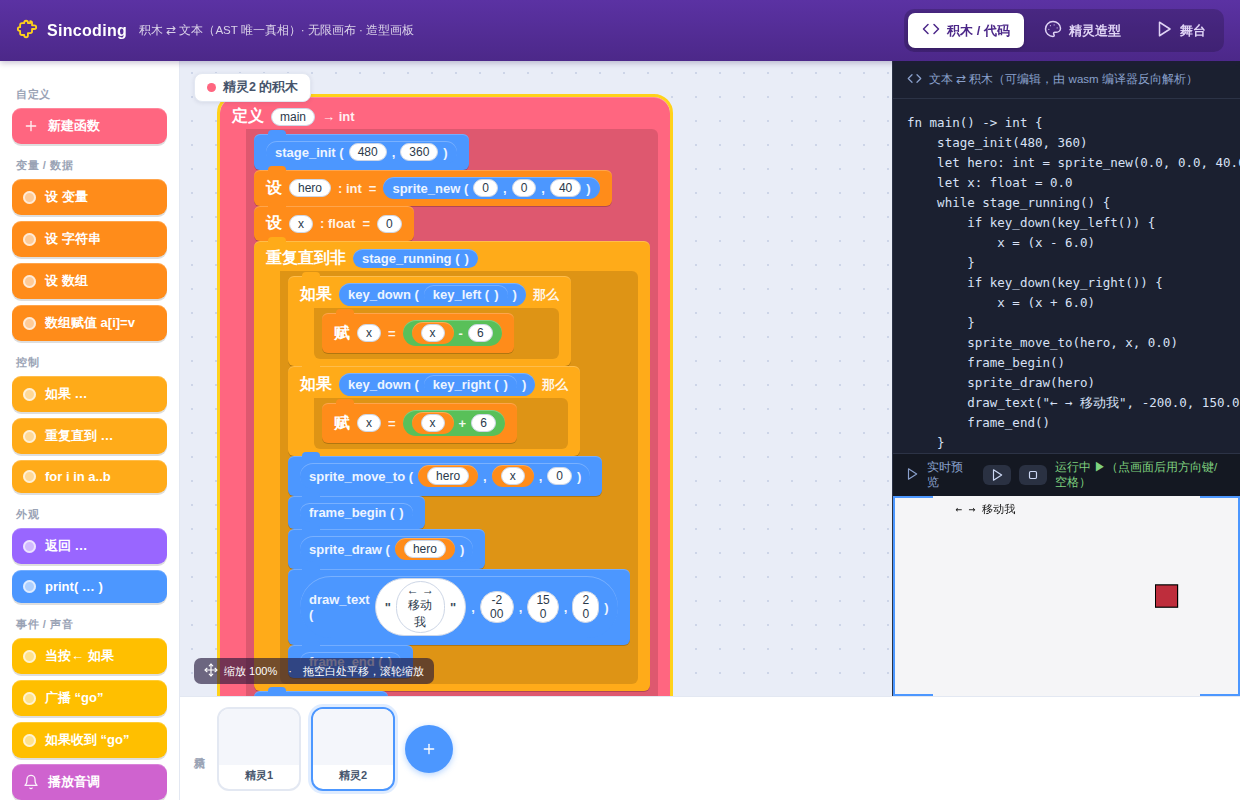
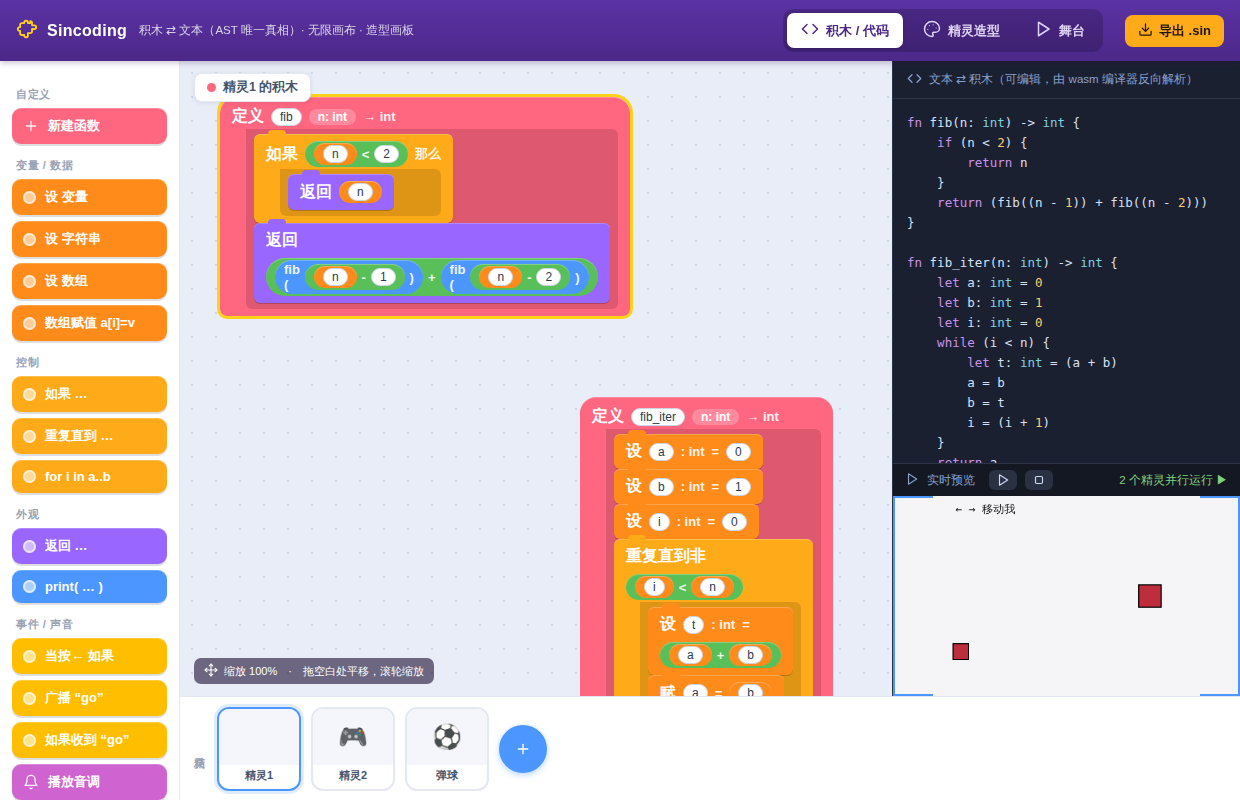
feat: 一键导出 + 多精灵并行预览 + 语法高亮
三件事一起落地：

多精灵并行（interp.js）:
- 解释器重构为多 actor 共享同一舞台：各精灵 main 的 while stage_running()
  主循环每帧并行执行一次；frame_begin 协调为每帧只清一次屏
- 新增自动弹球精灵，默认即可看到两个精灵同台并行运动

一键导出（app.js）:
- 「导出 .sin」按钮：自动补全所用运行时函数的 extern 声明（去重，已声明
  的不重复），拼接 结构体/全局/函数 序列化 → 下载可独立编译的 .sin
- 经验证：导出的源码可被 build_native 编译并无头运行（精灵渲染）

语法高亮（app.js + css）:
- 透明 textarea 覆盖在高亮 <pre> 之上，滚动同步；零依赖分词高亮
  关键字/类型/字符串/数字/注释

其它：精灵模型加 structs/globals（反向解析时保存，导出含之）；
field/structlit 积木渲染。verify_ide 新增 parallel/exportOk/highlighted
断言。全部 43 项通过。

Claude-Session: https://claude.ai/code/session_01HiR2mBnFKd7jA92bvRoyae

diff --git a/editor/app.js b/editor/app.js
@@ -41,6 +41,26 @@
       { block: "return", value: I(0) },
     ] };
   }
+  // 自动来回弹的精灵（无需输入），用于展示多精灵并行
+  function sampleBounce() {
+    return { block: "fn", name: "main", params: [], ret: "int", body: [
+      Ex(C("stage_init", I(480), I(360))),
+      { block: "let", name: "b", type: "int", len: 0, value: C("sprite_new", F(150), F(-100), F(28)) },
+      { block: "let", name: "bx", type: "float", len: 0, value: F(150) },
+      { block: "let", name: "vx", type: "float", len: 0, value: F(4) },
+      { block: "while", cond: C("stage_running"), body: [
+        { block: "assign", name: "bx", value: Bn("+", Vr("bx"), Vr("vx")) },
+        { block: "if", cond: Bn(">", Vr("bx"), F(200)), then: [ { block: "assign", name: "vx", value: Bn("-", F(0), Vr("vx")) } ] },
+        { block: "if", cond: Bn("<", Vr("bx"), F(-200)), then: [ { block: "assign", name: "vx", value: Bn("-", F(0), Vr("vx")) } ] },
+        Ex(C("sprite_move_to", Vr("b"), Vr("bx"), F(-100))),
+        Ex(C("frame_begin")),
+        Ex(C("sprite_draw", Vr("b"))),
+        Ex(C("frame_end")),
+      ] },
+      Ex(C("stage_close")),
+      { block: "return", value: I(0) },
+    ] };
+  }
   function placeFns(program) {
     program.forEach((fn, i) => {
       if (fn._x === undefined) { fn._x = 40 + (i % 2) * 360; fn._y = 36 + i * 300; }
@@ -50,8 +70,9 @@
     const p1 = (window.SIN_BLOCKS && window.SIN_BLOCKS.program)
       ? window.SIN_BLOCKS.program : [sampleMain()];
     const sprites = [
-      { name: "精灵1", icon: "🐱", program: p1, costumes: [] },
-      { name: "精灵2", icon: "🎮", program: [sampleGame()], costumes: [] },
+      { name: "精灵1", icon: "🐱", program: p1, costumes: [], structs: [], globals: [] },
+      { name: "精灵2", icon: "🎮", program: [sampleGame()], costumes: [], structs: [], globals: [] },
+      { name: "弹球", icon: "⚽", program: [sampleBounce()], costumes: [], structs: [], globals: [] },
     ];
     sprites.forEach((s) => placeFns(s.program));
     return { sprites, cur: 0 };
@@ -101,11 +122,41 @@
 
   // ---------------- 文本写回 ----------------
   const textOut = document.getElementById("text-out");
+  const textHl = document.querySelector("#text-hl code");
+  function fullModel() {
+    const s = sprite();
+    return { structs: s.structs || [], globals: s.globals || [], program: s.program };
+  }
+  function setTextValue(v) { textOut.value = v; syncHighlight(); }
   function refreshText() {
     if (document.activeElement === textOut) return; // 用户正在编辑文本，别打断
-    try { textOut.value = window.BlockModel.modelToSource(sprite().program); }
-    catch (err) { textOut.value = "// 序列化错误: " + err.message; }
+    try { setTextValue(window.BlockModel.modelToSource(fullModel())); }
+    catch (err) { setTextValue("// 序列化错误: " + err.message); }
     schedulePreview();
+  }
+
+  // ---------------- 语法高亮（透明 textarea 覆盖在高亮层上） ----------------
+  const HL_KW = new Set(["let", "fn", "if", "else", "while", "for", "return", "extern", "struct", "true", "false", "in"]);
+  const HL_TY = new Set(["int", "float", "bool", "string", "void"]);
+  function hlEsc(t) { return t.replace(/&/g, "&amp;").replace(/</g, "&lt;").replace(/>/g, "&gt;"); }
+  function hlSpan(cls, t) { return '<span class="hl-' + cls + '">' + hlEsc(t) + "</span>"; }
+  function highlight(src) {
+    let out = "", i = 0; const n = src.length;
+    const isW = (c) => /[A-Za-z0-9_]/.test(c);
+    while (i < n) {
+      const c = src[i];
+      if (c === "/" && src[i + 1] === "/") { let j = i; while (j < n && src[j] !== "\n") j++; out += hlSpan("cm", src.slice(i, j)); i = j; }
+      else if (c === '"') { let j = i + 1; while (j < n && src[j] !== '"') { if (src[j] === "\\") j++; j++; } j = Math.min(j + 1, n); out += hlSpan("st", src.slice(i, j)); i = j; }
+      else if (/[0-9]/.test(c)) { let j = i; while (j < n && /[0-9.]/.test(src[j])) j++; out += hlSpan("nu", src.slice(i, j)); i = j; }
+      else if (/[A-Za-z_]/.test(c)) { let j = i; while (j < n && isW(src[j])) j++; const w = src.slice(i, j); const cls = HL_KW.has(w) ? "kw" : HL_TY.has(w) ? "ty" : null; out += cls ? hlSpan(cls, w) : hlEsc(w); i = j; }
+      else { out += hlEsc(c); i++; }
+    }
+    return out;
+  }
+  function syncHighlight() {
+    if (textHl) textHl.innerHTML = highlight(textOut.value) + "\n";
+    const wrap = document.getElementById("text-hl");
+    if (wrap) { wrap.scrollTop = textOut.scrollTop; wrap.scrollLeft = textOut.scrollLeft; }
   }
 
   // ---------------- 实时预览（解释器跑积木） ----------------
@@ -115,7 +166,7 @@
   }
   function runPreview() {
     if (!preview) return;
-    try { preview.run(sprite().program, setPvStatus); }
+    try { preview.runProject(project.sprites.map((s) => s.program), setPvStatus); } // 多精灵并行
     catch (e) { setPvStatus("预览错误", "warn"); }
   }
   function schedulePreview() { clearTimeout(previewTimer); previewTimer = setTimeout(runPreview, 450); }
@@ -413,12 +464,15 @@
       const out = sincMod.ccall("sin_to_blocks", "string", ["string"], [textOut.value]);
       res = JSON.parse(out);
     } catch (e) { setTextStatus("解析失败", "warn"); return; }
-    const prog = (res.blocks && res.blocks.program) || [];
+    const blk = res.blocks || {};
+    const prog = blk.program || [];
     // 尽量保留同名函数的画布位置
     const oldPos = {};
     sprite().program.forEach((f) => { oldPos[f.name] = { x: f._x, y: f._y }; });
     prog.forEach((f) => { if (oldPos[f.name]) { f._x = oldPos[f.name].x; f._y = oldPos[f.name].y; } });
     placeFns(prog);
+    sprite().structs = blk.structs || [];
+    sprite().globals = blk.globals || [];
     sprite().program = prog;
     selected = prog[0] || null;
     renderCanvas(); // 不回写文本，避免打断输入
@@ -427,9 +481,56 @@
     schedulePreview(); // 文本编辑也实时刷新预览
   }
   textOut.addEventListener("input", () => {
+    syncHighlight();                 // 即时高亮
     clearTimeout(textTimer);
     textTimer = setTimeout(onTextEdited, 250);
   });
+  textOut.addEventListener("scroll", syncHighlight);
+
+  // ---------------- 一键导出 .sin（自动补运行时声明，使其可独立编译） ----------------
+  const RUNTIME_EXTERN_DECLS = [
+    ["stage_init", "extern fn stage_init(w: int, h: int)"],
+    ["stage_running", "extern fn stage_running() -> bool"],
+    ["frame_begin", "extern fn frame_begin()"],
+    ["frame_end", "extern fn frame_end()"],
+    ["stage_close", "extern fn stage_close()"],
+    ["sprite_new", "extern fn sprite_new(x: float, y: float, size: float) -> int"],
+    ["sprite_load", "extern fn sprite_load(path: string) -> int"],
+    ["sprite_move_to", "extern fn sprite_move_to(s: int, x: float, y: float)"],
+    ["sprite_x", "extern fn sprite_x(s: int) -> float"],
+    ["sprite_y", "extern fn sprite_y(s: int) -> float"],
+    ["sprite_draw", "extern fn sprite_draw(s: int)"],
+    ["key_down", "extern fn key_down(key: int) -> bool"],
+    ["key_left", "extern fn key_left() -> int"],
+    ["key_right", "extern fn key_right() -> int"],
+    ["key_up", "extern fn key_up() -> int"],
+    ["key_down_arrow", "extern fn key_down_arrow() -> int"],
+    ["say", "extern fn say(s: int, text: string)"],
+    ["draw_text", "extern fn draw_text(text: string, x: float, y: float, size: int)"],
+    ["draw_number", "extern fn draw_number(n: int, x: float, y: float, size: int)"],
+    ["sound_load", "extern fn sound_load(path: string) -> int"],
+    ["play_sound", "extern fn play_sound(snd: int)"],
+    ["play_tone", "extern fn play_tone(freq: int, ms: int)"],
+    ["broadcast", "extern fn broadcast(message: string)"],
+    ["received", "extern fn received(message: string) -> bool"],
+  ];
+  function exportSource() {
+    const model = fullModel();
+    const have = new Set((model.program || []).map((f) => f.name));
+    const externs = RUNTIME_EXTERN_DECLS.filter(([name]) => !have.has(name)).map(([, t]) => t);
+    const head = externs.length ? "// 运行时声明（导出自动补全，使程序可独立编译）\n" + externs.join("\n") + "\n\n" : "";
+    return head + window.BlockModel.modelToSource(model);
+  }
+  function exportSin() {
+    const src = exportSource();
+    const blob = new Blob([src], { type: "text/plain;charset=utf-8" });
+    const a = document.createElement("a");
+    a.href = URL.createObjectURL(blob);
+    a.download = (sprite().name || "program") + ".sin";
+    a.click();
+    setTimeout(() => URL.revokeObjectURL(a.href), 1000);
+  }
+  window._sinExport = exportSource; // 供测试读取
 
   // ---------------- 精灵列表（多精灵 / 多页积木） ----------------
   // 造型是否有绘制内容（非全透明），用于判断是否以造型为纹理
@@ -651,6 +752,8 @@
   setupTabs();
   setupCostume();
   setupPreview();
+  const expBtn = document.getElementById("btn-export-sin");
+  if (expBtn) expBtn.addEventListener("click", exportSin);
   document.getElementById("add-sprite").addEventListener("click", addSprite);
   applyView();
   renderSpriteBar();

diff --git a/editor/interp.js b/editor/interp.js
@@ -40,56 +40,70 @@
     }
 
     // ---- 运行 ----
-    run(program, onStatus) {
+    run(program, onStatus) { this.runProject([program], onStatus); }
+
+    // 多精灵并行：每个精灵程序是一个 actor，共享同一个舞台/世界；
+    // 各自的 while stage_running() 主循环每帧执行一次，协调清屏（每帧只清一次）。
+    runProject(programs, onStatus) {
       this.stop();
       this.onStatus = onStatus || (() => {});
-      this.fns = {};
-      (program || []).forEach((f) => { if (f.block === "fn") this.fns[f.name] = f; });
-      const main = this.fns["main"];
       const w = this.canvas.width, h = this.canvas.height;
       this.ctx.fillStyle = "#f5f5f7"; this.ctx.fillRect(0, 0, w, h);
-      if (!main) { this.onStatus("没有 main()，无法预览", "warn"); return; }
-
       this.world = {
-        W: w, H: h, running: true, frame: 0, sprites: [],
+        W: w, H: h, running: true, frame: 0, frameCleared: false, sprites: [],
         keys: this.keys, broadcasts: new Set(), nextBroadcasts: new Set(),
         soundCount: 0, console: [],
       };
-      const env = [new Map()];
-      const body = main.body || [];
-      const loopIdx = body.findIndex((s) => s.block === "while" && s.cond &&
-        s.cond.block === "call" && s.cond.callee === "stage_running");
-      try {
-        if (loopIdx < 0) {                       // 非游戏：跑到结束，展示输出
-          this.execList(body, env);
-          this.drawConsole();
-          this.onStatus("运行完成 ✓", "ok");
-          return;
+      this.actors = [];
+      let hasMain = false;
+      for (const program of (programs || [])) {
+        const fns = {};
+        (program || []).forEach((f) => { if (f.block === "fn") fns[f.name] = f; });
+        const main = fns["main"];
+        if (!main) continue;
+        hasMain = true;
+        const env = [new Map()];
+        const body = main.body || [];
+        const loopIdx = body.findIndex((s) => s.block === "while" && s.cond &&
+          s.cond.block === "call" && s.cond.callee === "stage_running");
+        this.fns = fns;
+        try {
+          if (loopIdx < 0) {
+            this.execList(body, env);            // 无主循环：跑到结束
+          } else {
+            for (let i = 0; i < loopIdx; i++) this.execStmt(body[i], env);  // 初始化
+            this.actors.push({ fns, env, loop: body[loopIdx], post: body.slice(loopIdx + 1) });
+          }
+        } catch (e) {
+          if (!(e instanceof ReturnSignal)) this.onStatus("运行出错: " + e.message, "warn");
         }
-        for (let i = 0; i < loopIdx; i++) this.execStmt(body[i], env);  // 初始化
-        this.env = env;
-        this.loop = body[loopIdx];
-        this.post = body.slice(loopIdx + 1);
-        this.onStatus("运行中 ▶（点画面后用方向键/空格）", "ok");
-        this.frameLoop();
-      } catch (e) {
-        if (!(e instanceof ReturnSignal)) this.onStatus("运行出错: " + e.message, "warn");
       }
+      if (!hasMain) { this.onStatus("没有 main()，无法预览", "warn"); return; }
+      if (this.actors.length === 0) { this.drawConsole(); this.onStatus("运行完成 ✓", "ok"); return; }
+      this.onStatus(this.actors.length > 1 ?
+        (this.actors.length + " 个精灵并行运行 ▶") : "运行中 ▶（点画面用方向键/空格）", "ok");
+      this.frameLoop();
     }
 
     frameLoop() {
       const wd = this.world;
       if (!wd || !wd.running) {
-        try { for (const s of this.post || []) this.execStmt(s, this.env); } catch (e) {}
+        (this.actors || []).forEach((a) => { this.fns = a.fns; try { for (const s of a.post) this.execStmt(s, a.env); } catch (e) {} });
         if (wd) this.onStatus("已结束", "ok");
         return;
       }
-      try {
-        this.execList(this.loop.body, this.env);
-      } catch (e) {
-        if (e instanceof ReturnSignal) { wd.running = false; }
-        else { this.onStatus("运行出错: " + e.message, "warn"); return; }
+      wd.frameCleared = false;
+      wd.broadcasts = wd.nextBroadcasts; wd.nextBroadcasts = new Set();
+      for (const a of this.actors) {
+        this.fns = a.fns;
+        try { this.execList(a.loop.body, a.env); }
+        catch (e) {
+          if (e instanceof ReturnSignal) a.done = true;
+          else { this.onStatus("运行出错: " + e.message, "warn"); return; }
+        }
       }
+      this.actors = this.actors.filter((a) => !a.done);
+      if (this.actors.length === 0) wd.running = false;
       wd.frame++;
       this.raf = requestAnimationFrame(() => this.frameLoop());
     }
@@ -209,8 +223,11 @@
       this.canvas.width = a[0]; this.canvas.height = a[1]; },
     stage_running() { return this.world.running; },
     frame_begin() {
-      this.world.broadcasts = this.world.nextBroadcasts; this.world.nextBroadcasts = new Set();
-      this.ctx.fillStyle = "#f5f5f7"; this.ctx.fillRect(0, 0, this.world.W, this.world.H);
+      // 每帧只清一次（多精灵共享同一帧）；广播交换由 frameLoop 统一处理
+      if (!this.world.frameCleared) {
+        this.ctx.fillStyle = "#f5f5f7"; this.ctx.fillRect(0, 0, this.world.W, this.world.H);
+        this.world.frameCleared = true;
+      }
     },
     frame_end() {},
     stage_close() { this.world.running = false; },

diff --git a/editor/style.css b/editor/style.css
@@ -96,10 +96,20 @@ header .tabs button.active { background:#fff; color:#4c2889; box-shadow:0 1px 3p
 #text-pane .hd { padding:10px 14px; font-size:11.5px; color:#8aa0cc;
   border-bottom:1px solid #2c3346; display:flex; align-items:center; gap:7px; }
 #text-pane .hd code { color:#ffd9a0; }
-#text-out { flex:1; margin:0; padding:14px; font-family:ui-monospace,"SFMono-Regular",Menlo,monospace;
-  font-size:12.5px; line-height:1.6; white-space:pre; overflow:auto; resize:none; border:0;
-  background:#1b2030; color:#d7e0f5; outline:none; }
-#text-out:focus { box-shadow:inset 3px 0 0 var(--c-motion); }
+/* 文本编辑器：透明 textarea 覆盖在高亮层之上（同步对齐） */
+#text-edit { position:relative; flex:1 1 auto; min-height:0; background:#1b2030; }
+#text-hl, #text-out { position:absolute; inset:0; margin:0; padding:14px; border:0;
+  font-family:ui-monospace,"SFMono-Regular",Menlo,monospace; font-size:12.5px; line-height:1.6;
+  white-space:pre; tab-size:4; overflow:auto; }
+#text-hl { color:#d7e0f5; pointer-events:none; background:transparent; }
+#text-hl code { font:inherit; }
+#text-out { background:transparent; color:transparent; caret-color:#fff; resize:none; outline:none; z-index:1; }
+.hl-kw { color:#c792ea; } .hl-ty { color:#7fd1e0; } .hl-st { color:#9fd17f; }
+.hl-nu { color:#ffcb6b; } .hl-cm { color:#6b7a99; font-style:italic; }
+#btn-export-sin { margin-left:10px; display:inline-flex; align-items:center; gap:6px;
+  background:#ffab19; color:#20160a; border:0; padding:7px 13px; border-radius:8px;
+  cursor:pointer; font-size:13px; font-weight:700; }
+#btn-export-sin:hover { filter:brightness(1.05); }
 #text-status { margin-left:auto; font-size:11px; }
 #text-pane .hd { display:flex; }
 #text-status.ok { color:#7fd17f; } #text-status.warn { color:#ffd21a; }

diff --git a/tools/verify_ide.js b/tools/verify_ide.js
@@ -97,6 +97,15 @@ function freePort() {
       return n;
     });
     const preview = previewPx > 200;
+    // 多精灵并行：状态栏应显示「并行」
+    const pvStatus = await page.evaluate(() => document.getElementById("pv-status").textContent);
+    const parallel = /并行/.test(pvStatus);
+    // 一键导出：补全 extern 声明，可独立编译
+    const exp = await page.evaluate(() => (window._sinExport ? window._sinExport() : ""));
+    const exportOk = exp.includes("extern fn stage_init") && exp.includes("fn main");
+    // 语法高亮：高亮层应有关键字 span
+    const highlighted = await page.evaluate(() =>
+      document.querySelectorAll("#text-hl code .hl-kw").length > 0);
 
     // 造型画板：切 tab，画几笔，断言有像素
     await page.click('header .tabs button[data-view="costume-view"]');
@@ -124,8 +133,9 @@ function freePort() {
     const stageOk = stage.count >= 2 && stage.textured >= 1;
     if (shots) await page.screenshot({ path: shots + "/ide_stage.png" });
 
-    result = { writeback, reorder, palette, reverse, spriteSwitch, preview, previewPx, stage, paintedPixels: painted, errors };
-    result.ok = writeback && reorder && palette && reverse && spriteSwitch && preview && stageOk && painted > 100 && errors.length === 0;
+    result = { writeback, reorder, palette, reverse, spriteSwitch, preview, parallel, exportOk, highlighted, stage, paintedPixels: painted, errors };
+    result.ok = writeback && reorder && palette && reverse && spriteSwitch && preview && parallel &&
+      exportOk && highlighted && stageOk && painted > 100 && errors.length === 0;
   } finally {
     await browser.close();
     srv.kill();

diff --git a/editor/index.html b/editor/index.html
@@ -18,6 +18,7 @@
     <button data-view="costume-view"><span class="ic" data-icon="palette"></span>精灵造型</button>
     <button data-view="stage-view"><span class="ic" data-icon="play"></span>舞台</button>
   </div>
+  <button id="btn-export-sin" title="导出可独立编译的 .sin"><span data-icon="download" data-icon-size="15"></span>导出 .sin</button>
 </header>
 
 <div id="main">
@@ -34,7 +35,10 @@
         </div>
         <div id="text-pane">
           <div class="hd"><span data-icon="code" data-icon-size="15"></span>文本 ⇄ 积木（可编辑，由 wasm 编译器反向解析）<span id="text-status"></span></div>
-          <textarea id="text-out" spellcheck="false"></textarea>
+          <div id="text-edit">
+            <pre id="text-hl" aria-hidden="true"><code></code></pre>
+            <textarea id="text-out" spellcheck="false"></textarea>
+          </div>
           <div id="preview-dock">
             <div class="pv-bar">
               <span data-icon="play" data-icon-size="14"></span>实时预览

diff --git a/README.md b/README.md
@@ -38,9 +38,9 @@
 
 ![文本→积木 反向同步](docs/images/ide_reverse.png)
 
-**实时编辑预览（类 Vue）**：右下角内置一个**积木解释器**，直接在浏览器里跑当前精灵的程序——编辑积木/文本即重新运行，支持键盘事件、广播、声音（Web Audio）。调色板新增**事件 / 声音**类积木（按键、广播、收到、播放音调）。下图：左为积木、右上为可编辑源码、右下为正在运行的小游戏（按住 → 精灵已右移）：
+**实时编辑预览（类 Vue）+ 多精灵并行 + 语法高亮 + 一键导出**：右下角内置**积木解释器**，把**所有精灵并行**跑在同一舞台上（共享世界、协调清屏），编辑积木/文本即重跑；支持键盘事件、广播、声音（Web Audio）。文本框带**语法高亮**；右上角"**导出 .sin**"一键产出可独立编译的源码（自动补全运行时 `extern` 声明）。下图：左积木、右上高亮源码、右下 **2 个精灵并行运行**（键控方块已右移 + 自动弹球）：
 
-![实时预览](docs/images/ide_preview.png)
+![实时预览 / 并行 / 高亮 / 导出](docs/images/ide_preview.png)
 
 精灵造型画板（画笔 / 橡皮 / 调色板 / 多造型）。底部精灵栏支持**多精灵**，每个精灵是独立的**一页积木**；积木可**拖拽重排**：
 

diff --git a/editor/README.md b/editor/README.md
@@ -19,6 +19,9 @@
 - **实时编辑预览**（`interp.js`）：内置积木解释器，直接在浏览器跑当前精灵程序，编辑即重跑（类 Vue）；
   支持键盘事件、广播、声音（Web Audio）。游戏主循环 `while stage_running()` 被逐帧（rAF）执行以不阻塞。
 - **事件 / 声音积木**：调色板含 当按键/广播/收到/播放音调 等（对应运行时 `broadcast`/`received`/`play_tone`）。
+- **多精灵并行**：预览把所有精灵的程序作为 actor 并行跑在同一舞台（共享世界、每帧只清一次屏）。
+- **语法高亮**：文本框为透明 textarea 覆盖在高亮层之上，关键字/类型/字符串/数字/注释着色。
+- **一键导出**：「导出 .sin」自动补全运行时 `extern` 声明，产出可被 `build_native.sh` / `build_web.sh` 直接编译的源码。
 - **可编辑积木**：数字 / 变量 / 函数名直接点改，布尔积木点击切换；从调色板加入 `let / if / while / return / print` 积木。
 - **实时文本写回**：任何积木编辑都即时更新右侧文本视图，结果与 `sinc --emit src` **逐字节一致**（由 `blockmodel.js` 保证，并有测试交叉验证）。
 - **精灵造型画板**：画笔 / 橡皮 / 调色板 / 笔刷大小 / 清空 / 导出 PNG，支持多造型与缩略图。
